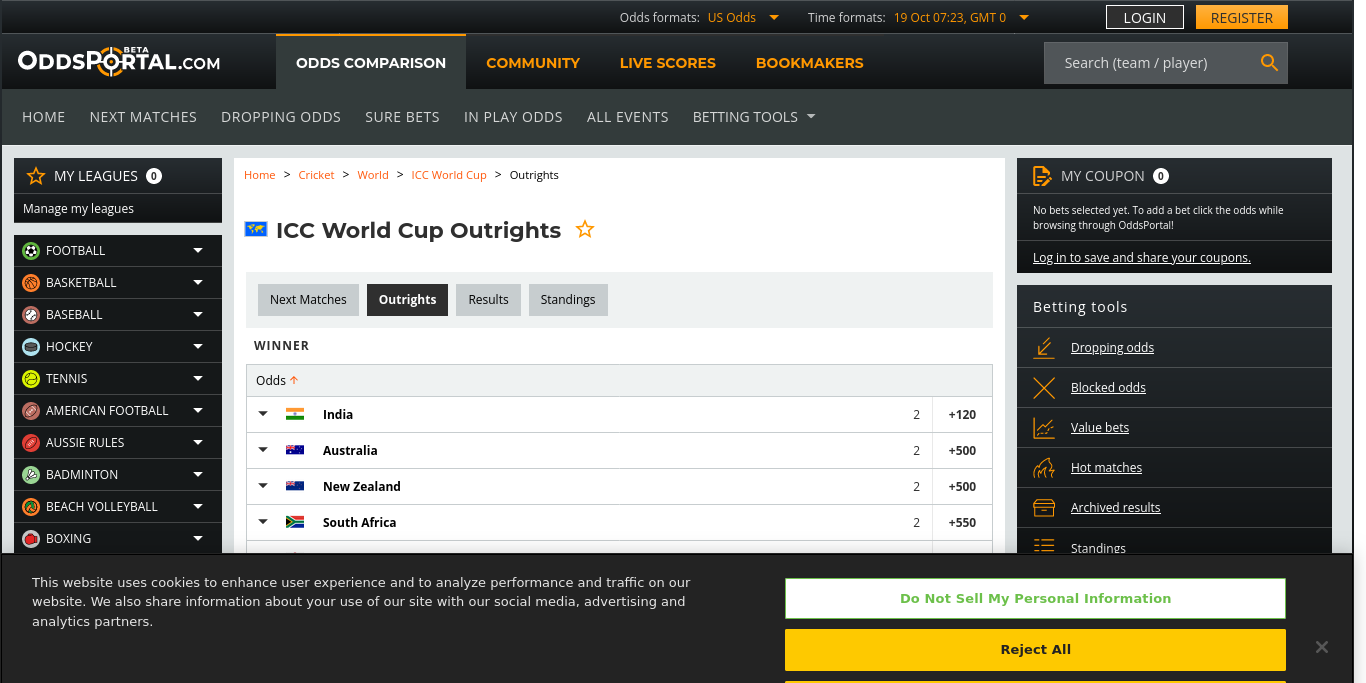
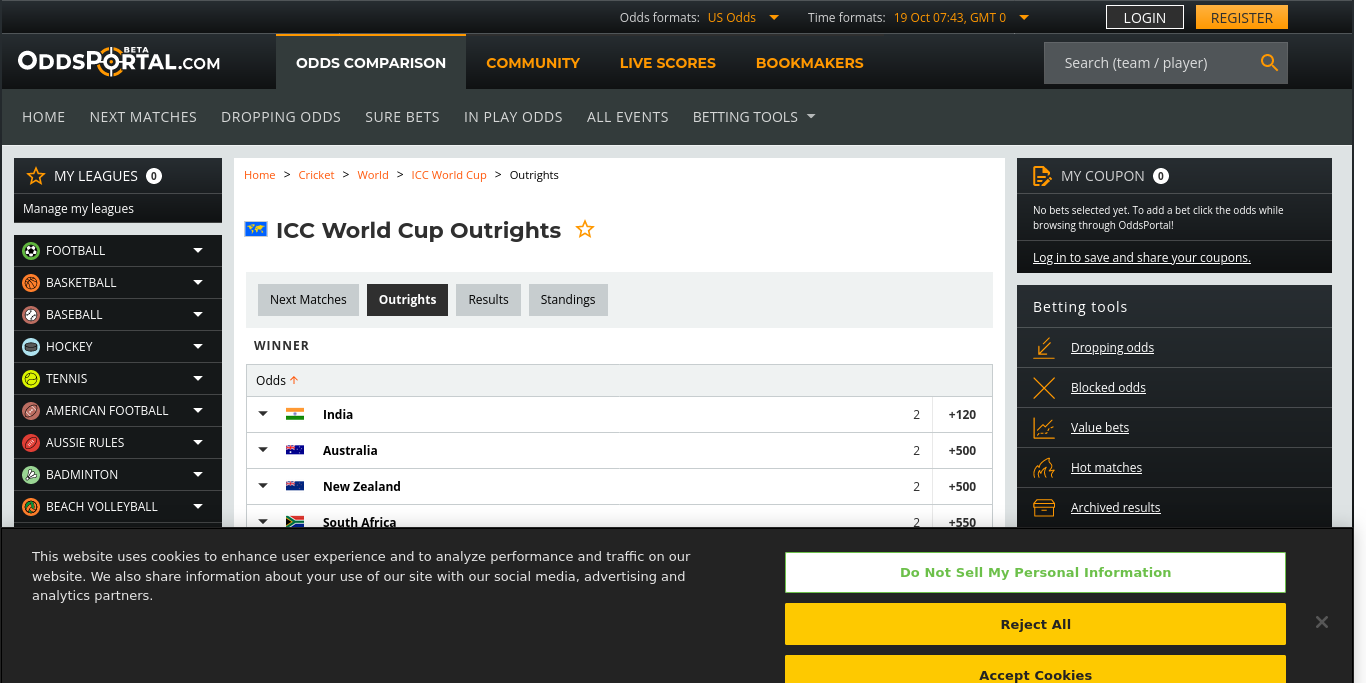
Update Data (Cron) Thu Oct 19 07:43:32 UTC 2023

Changed region(s): [[0.0, 0.7687, 1.0, 1.0]]

diff --git a/src/nonview/data/TEAM1_ID_TO_TEAM2_ID_TO_ODDS_PAIR.js b/src/nonview/data/TEAM1_ID_TO_TEAM2_ID_TO_ODDS_PAIR.js
@@ -1,12 +1,12 @@
 // Auto Generated by UpdateTeam1IDToTeam2IDToOddsPair
 // https://www.oddsportal.com/cricket/world/icc-world-cup/
-// 2023-10-19 12:53:30 +0000
+// 2023-10-19 13:13:24 +0000
 
 import { TEAM } from "../core/Team.js";
 
 export const TEAM1_ID_TO_TEAM2_ID_TO_ODDS_PAIR = {
   [TEAM.IND.id]: {
-    [TEAM.BGD.id]: [1.12, 6.05],
+    [TEAM.BGD.id]: [1.12, 6.07],
     [TEAM.NZL.id]: [1.40, 2.93],
   },
   [TEAM.AUS.id]: {

diff --git a/src/nonview/constants/VERSION.js b/src/nonview/constants/VERSION.js
@@ -1,4 +1,4 @@
 // Auto-generated by javascript_version.py
-export const VERSION_UT = 1697700218;
+export const VERSION_UT = 1697701413;
 export const VERSION_DATETIME = new Date(VERSION_UT * 1_000);
 export const LAST_COMMIT_MESSAGE = "Updated 📊Data";

diff --git a/src/nonview/data/TEAM_ID_TO_P_WINNER.js b/src/nonview/data/TEAM_ID_TO_P_WINNER.js
@@ -1,6 +1,6 @@
 // Auto Generated by UpdateTeamIDToPWinner
 // https://www.oddsportal.com/cricket/world/icc-world-cup/outrights/
-// 2023-10-19 12:53:38 +0000
+// 2023-10-19 13:13:32 +0000
 
 export const TEAM_ID_TO_P_WINNER = {
   IND: 0.397865, // 40%

diff --git a/src/nonview/data/ODI_ID_TO_WINNER.js b/src/nonview/data/ODI_ID_TO_WINNER.js
@@ -1,6 +1,6 @@
 // Auto Generated by UpdateODIIDToWinner
 // https://www.cricbuzz.com/cricket-series/6732/icc-cricket-world-cup-2023/matches
-// 2023-10-19 12:53:10 +0000
+// 2023-10-19 13:13:03 +0000
 
 import { TEAM } from "../core/Team.js";
 

diff --git a/src/nonview/data/POINTS_TABLE.js b/src/nonview/data/POINTS_TABLE.js
@@ -1,6 +1,6 @@
 // Auto Generated by UpdatePointsTable
 // https://www.cricketworldcup.com/standings
-// 2023-10-19 12:53:20 +0000
+// 2023-10-19 13:13:14 +0000
 
 import { TEAM } from "../core/Team.js";
 
